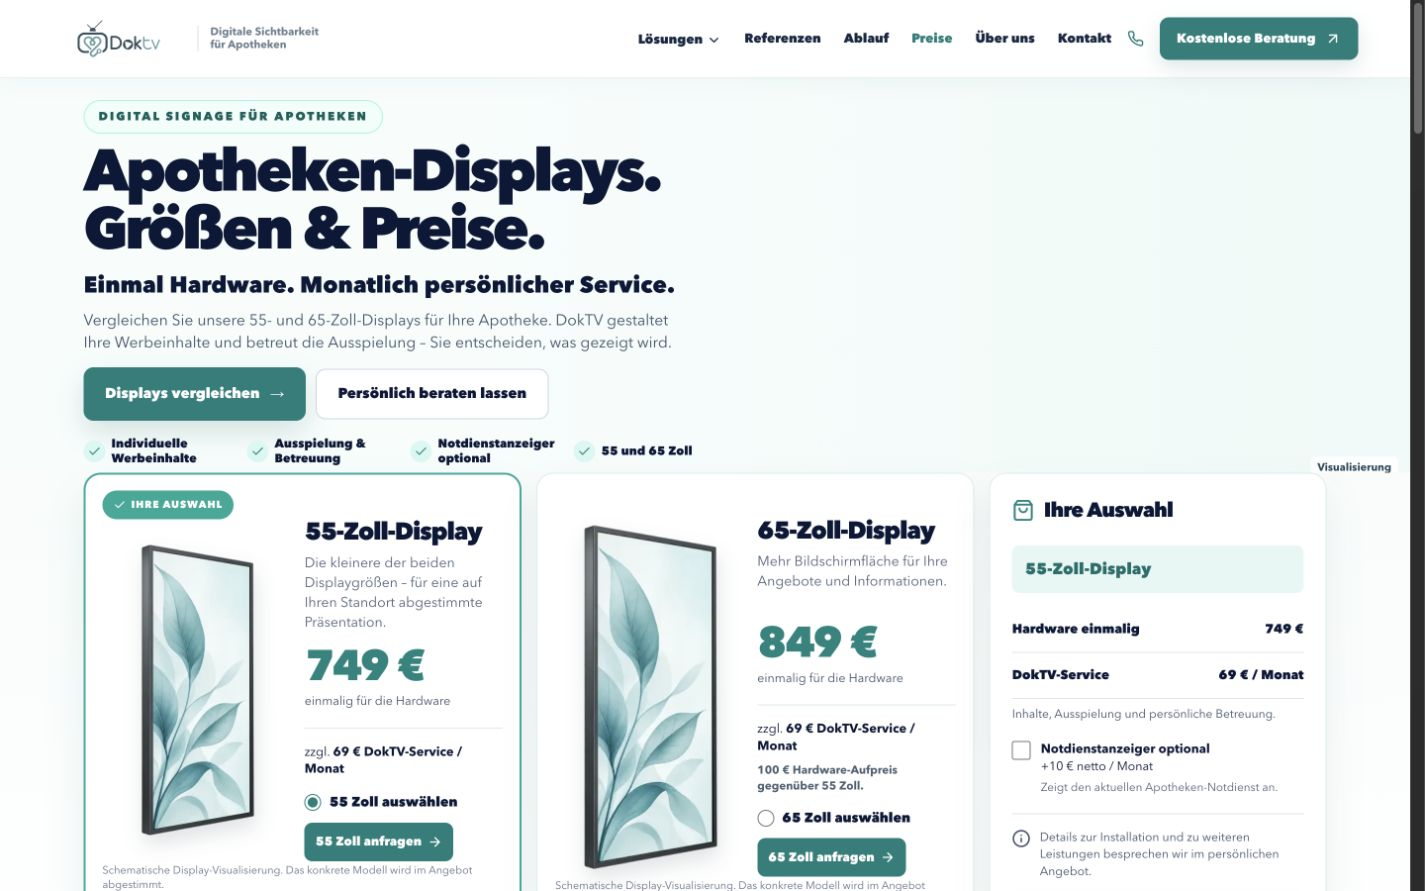
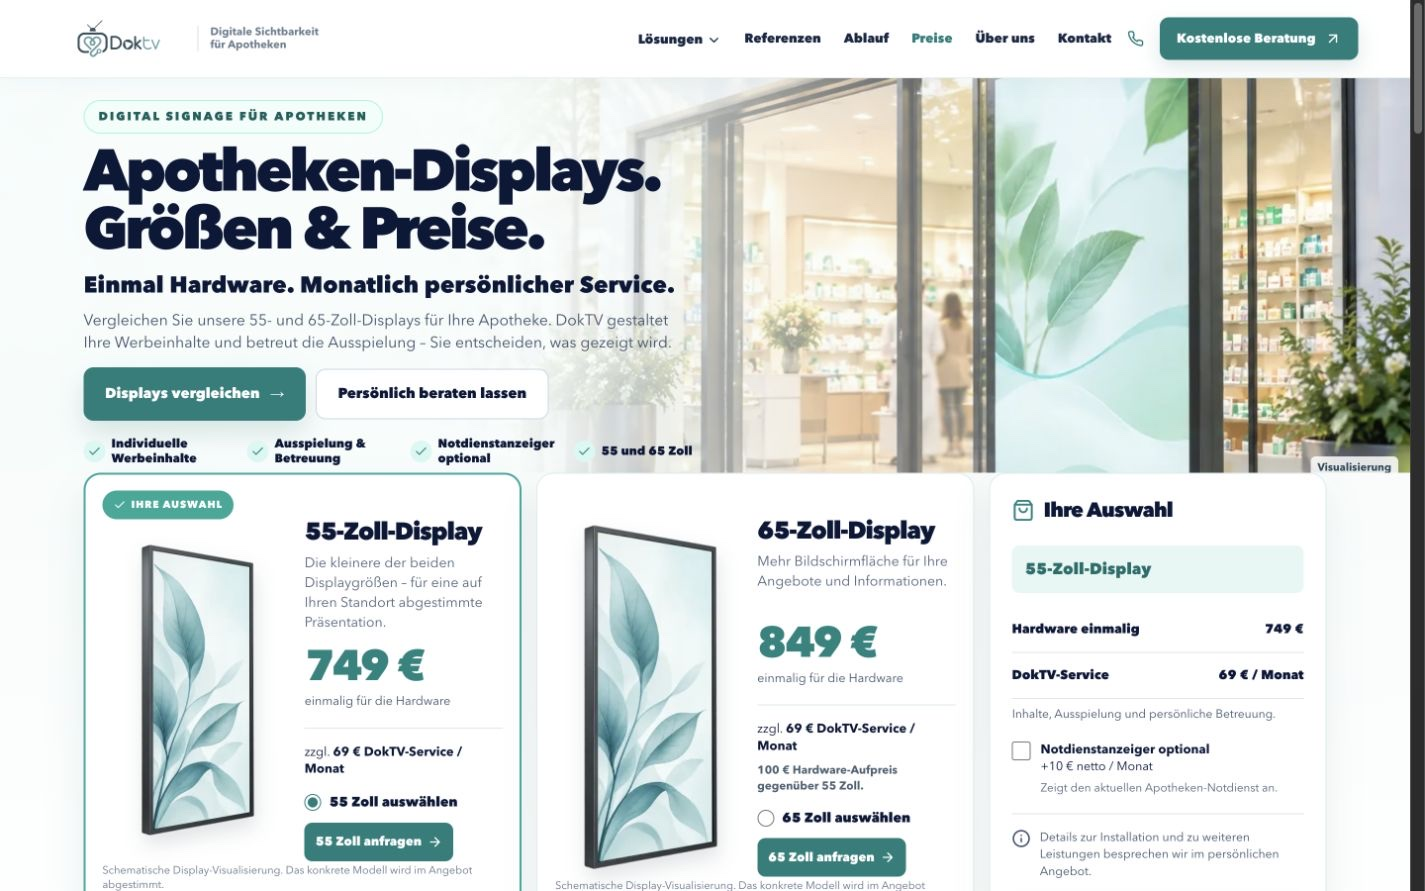
Show pharmacy hero visual on pricing page

diff --git a/app/(public)/preise/preise.module.css b/app/(public)/preise/preise.module.css
@@ -1,9 +1,9 @@
 .page { overflow: clip; background: #fff; color: var(--doktv-navy); }
 .page h1, .page h2, .page h3 { color: var(--doktv-navy); }
 .hero { position: relative; isolation: isolate; min-height: 405px; display: flex; align-items: center; background: #effaf8; }
-.heroImage { z-index: -2; object-fit: cover; object-position: center 46%; }
-.hero::after { content: ""; position: absolute; z-index: -1; inset: 0; background: linear-gradient(90deg, rgba(247,253,252,.96) 0%, rgba(247,253,252,.9) 38%, rgba(247,253,252,.42) 65%, rgba(247,253,252,0) 100%); }
-.heroInner { position: relative; padding-top: 22px; padding-bottom: 22px; }
+.heroImage { z-index: 0; object-fit: cover; object-position: center 46%; }
+.hero::after { content: ""; position: absolute; z-index: 1; inset: 0; background: linear-gradient(90deg, rgba(247,253,252,.96) 0%, rgba(247,253,252,.9) 38%, rgba(247,253,252,.42) 65%, rgba(247,253,252,0) 100%); pointer-events: none; }
+.heroInner { position: relative; z-index: 2; padding-top: 22px; padding-bottom: 22px; }
 .heroCopy { max-width: 790px; }
 .hero h1 { margin-top: 10px; font-size: clamp(2.8rem, 4.1vw, 3.8rem); font-weight: 900; line-height: .99; letter-spacing: -.055em; text-wrap: balance; }
 .heroLead { margin-top: 9px; font-size: clamp(1.12rem, 1.6vw, 1.5rem); font-weight: 750; }
@@ -13,7 +13,7 @@
 .heroFeatures { display: grid; grid-template-columns: repeat(4, max-content); gap: clamp(12px, 2vw, 25px); margin-top: 16px; list-style: none; padding: 0; }
 .heroFeatures li { display: flex; align-items: center; gap: 6px; max-width: 140px; font-size: .76rem; font-weight: 800; line-height: 1.25; }
 .heroFeatures svg { flex: none; width: 22px; height: 22px; padding: 4px; border-radius: 50%; background: #d6f8f2; color: #00867e; }
-.heroCaption { position: absolute; right: 12px; bottom: 10px; color: #234757; background: rgba(255,255,255,.84); padding: 3px 7px; border-radius: 5px; font-size: .68rem; font-weight: 700; }
+.heroCaption { position: absolute; z-index: 2; right: 12px; bottom: 10px; color: #234757; background: rgba(255,255,255,.84); padding: 3px 7px; border-radius: 5px; font-size: .68rem; font-weight: 700; }
 
 .selectionSection { position: relative; z-index: 1; padding: 0 0 55px; background: linear-gradient(180deg, #f8fcfb 0%, #fff 100%); }
 .selectionIntro { display: flex; align-items: end; justify-content: space-between; gap: 28px; margin-bottom: 24px; }

diff --git a/design-qa.md b/design-qa.md
@@ -128,6 +128,7 @@ The product-card crop was checked against the source's card region. Both device 
 
 1. Initial 1440 capture: H1 wrapped to three lines, the shared header CTA clipped, and the large hero pushed both prices too low. Reduced hero type/spacing and improved the responsive header gap. Follow-up: `artifacts/preise-desktop.jpg` shows a two-line H1, full header CTA and both hardware prices in the first viewport.
 2. Initial 1024 capture: summary fell beneath the cards and excessive section introduction delayed the comparison. Set the three-column breakpoint at 961 px, moved the cards directly under the compact hero, enlarged the schematics via a cropped generated asset and promoted inquiry links to buttons. Follow-up: `artifacts/preise-vergleich-1024.jpg` and `artifacts/preise-karten-1024.jpg` show the intended composition.
+3. Final release review: the pharmacy image was loaded but hidden behind the hero's stacking background. Moved the image, gradient and content into explicit positive layers. Refreshed the 1440 px desktop, 1024 px comparison and 390 px mobile screenshots; the hero image is visible without obscuring the heading or controls.
 
 ## Findings
 
